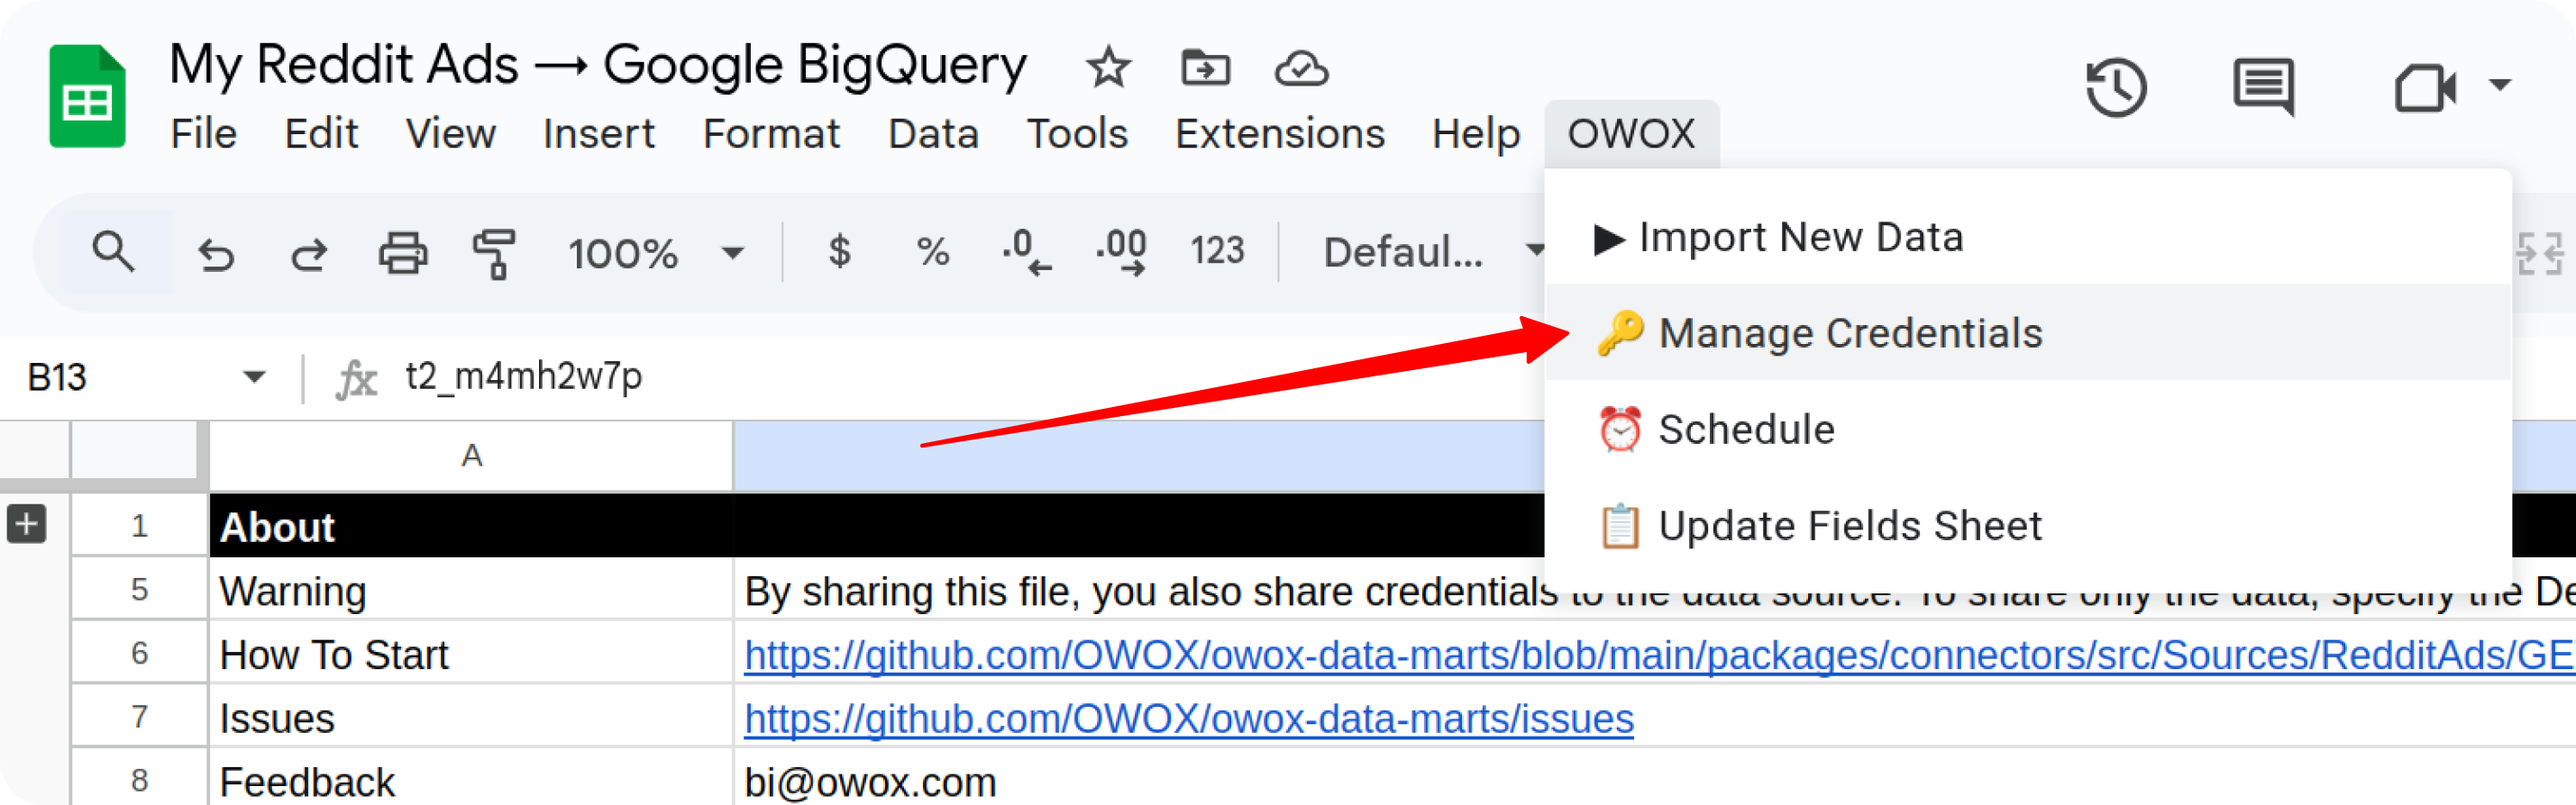
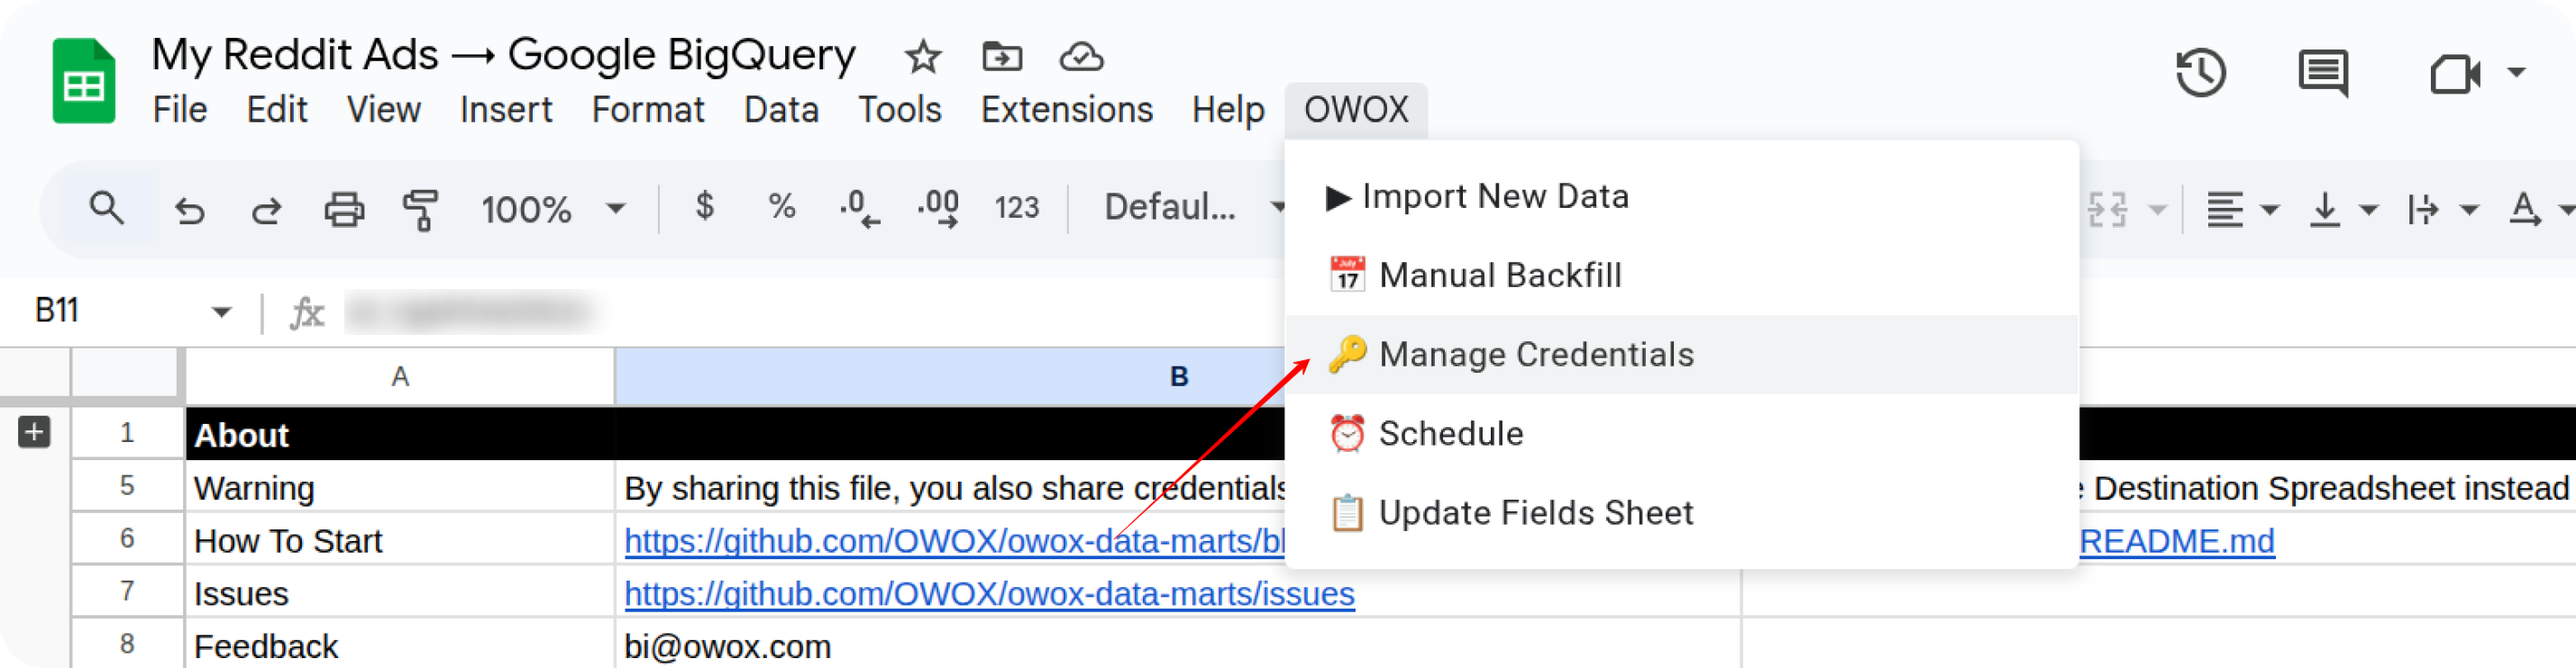
docs: clarify Reddit Ads import options and update instructional images (#402)
* Refactor tutorial structure for improved readability
* Reddit updates.
* feat: enhance Reddit Ads import instructions and add new images for clarity
* fix: remove redundant line in Reddit Ads import instructions

diff --git a/packages/connectors/src/Sources/RedditAds/GETTING_STARTED.md b/packages/connectors/src/Sources/RedditAds/GETTING_STARTED.md
@@ -43,12 +43,33 @@ Enter your credentials as described in this guide:
 
 ![Reddit Token](res/reddit_tokens.png)
 
-Click **Check and Save**. Once credentials are saved, go to:  
-**OWOX → Import New Data**
+Click **Check and Save**. Once credentials are saved, go to menu.
 
-![Reddit Import Data](res/reddit_import.png)
+Now you have **two options** for importing data from Reddit Ads:
 
-The process is complete when the **Log** sheet shows the message:  
+Option 1: Import Current Day's Data
+
+Choose **OWOX → Import New Data** to load data for the **current day**.
+
+![Reddit Import New Data](res/reddit_importcurrentday.png)
+
+> ℹ If you click **Import New Data** again after a successful initial load,  
+> the connector will import: **Current day's data**, plus **Additional days**, based on the value in the **Reimport Lookback Window** field.
+
+![Reddit Reimport](res/reddit_reimport.png)
+
+Option 2: Manual Backfill for Specific Date Range
+
+Choose **Manual Backfill** to load historical data for a custom time range.
+
+![Reddit Backfill](res/reddit_backfill.png)
+
+1. Select the **Start Date** and **End Date**  
+2. Click the **Run Manual Backfill** button
+
+![Reddit Run Backfill](res/reddit_runbackfill.png)
+
+The process is complete when the **Log** field shows the message:  
 **"Import is finished"**  
 
 Access Your Data:
@@ -61,14 +82,8 @@ Access Your Data:
 
 ![Reddit Finished](res/reddit_finish.png)
 
-To include more fields later, check the appropriate boxes in the **Fields** tab and click:  
-**OWOX → Import New Data**
-
-> ⚠ **Important:** To make a manual backfill for the date range:
->
-> 1. Open the menu: **OWOX → Manual Backfill**
-> 2. Update the **Start Date** and **End Date**
-> 3. Click **Run manual Backfill**
+Want to include more fields? You can customize the imported data by selecting additional checkboxes in the **Fields** tab.
+After adjusting your field selection, run the import again to retrieve the updated data.
 
 If you encounter any issues:
 
